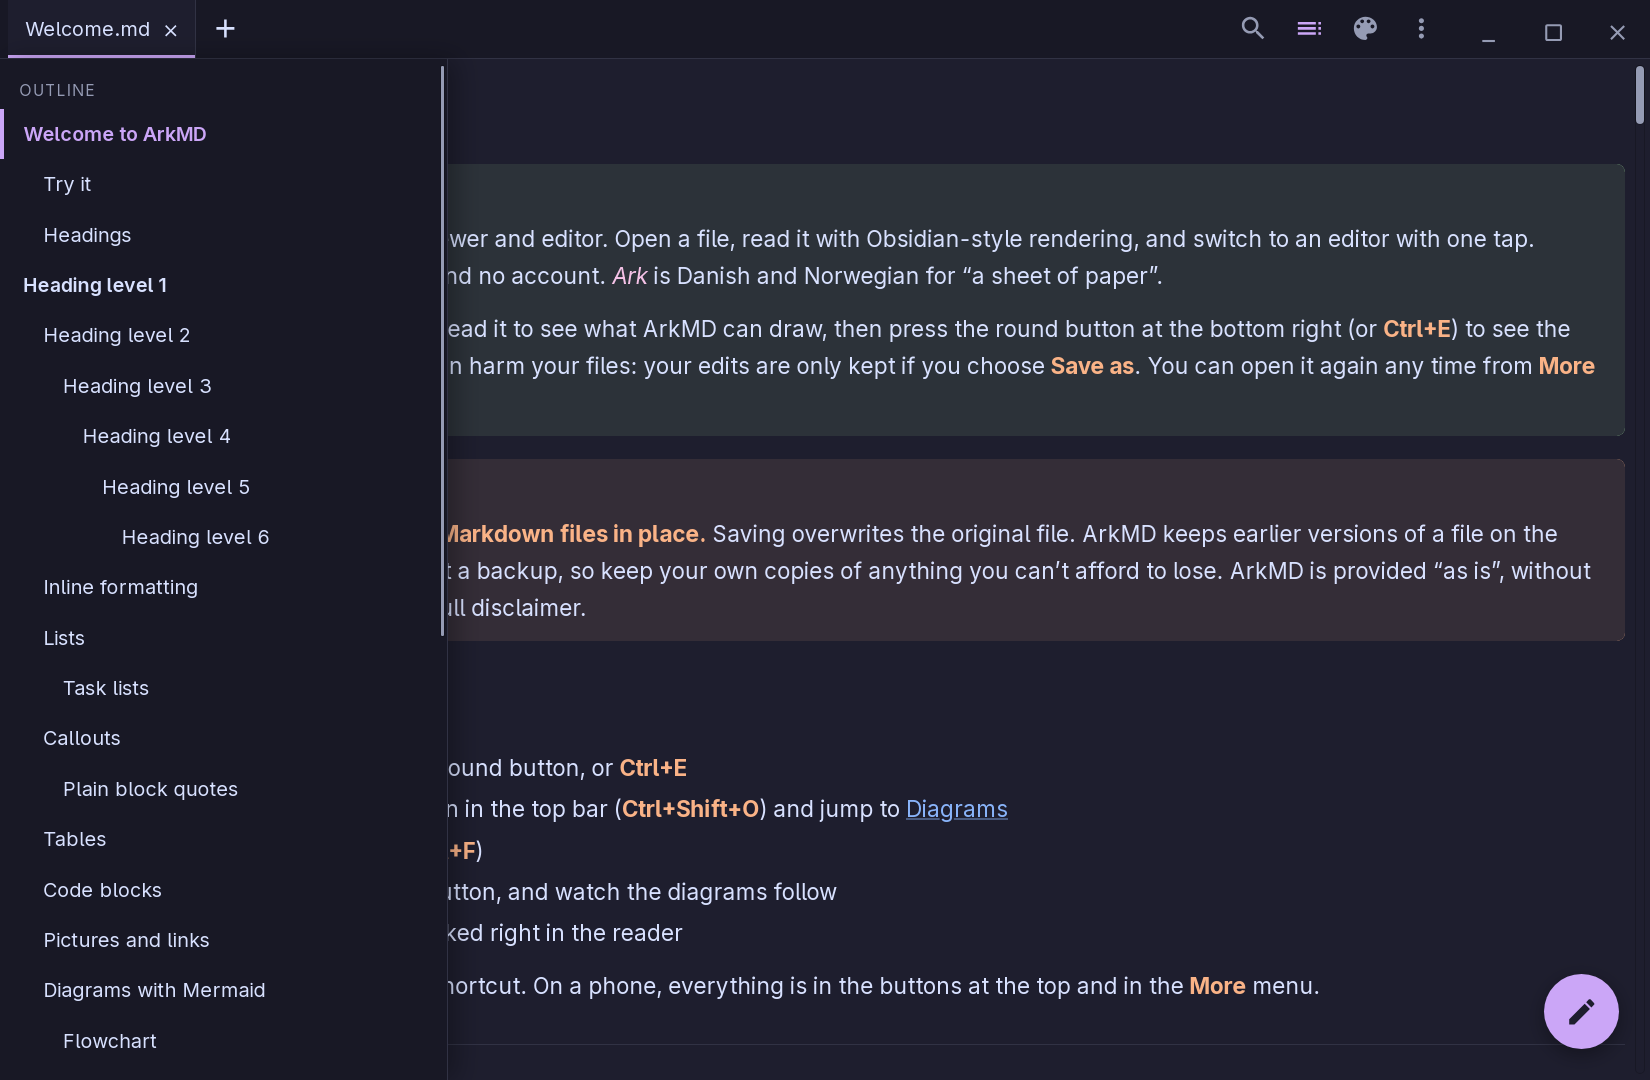
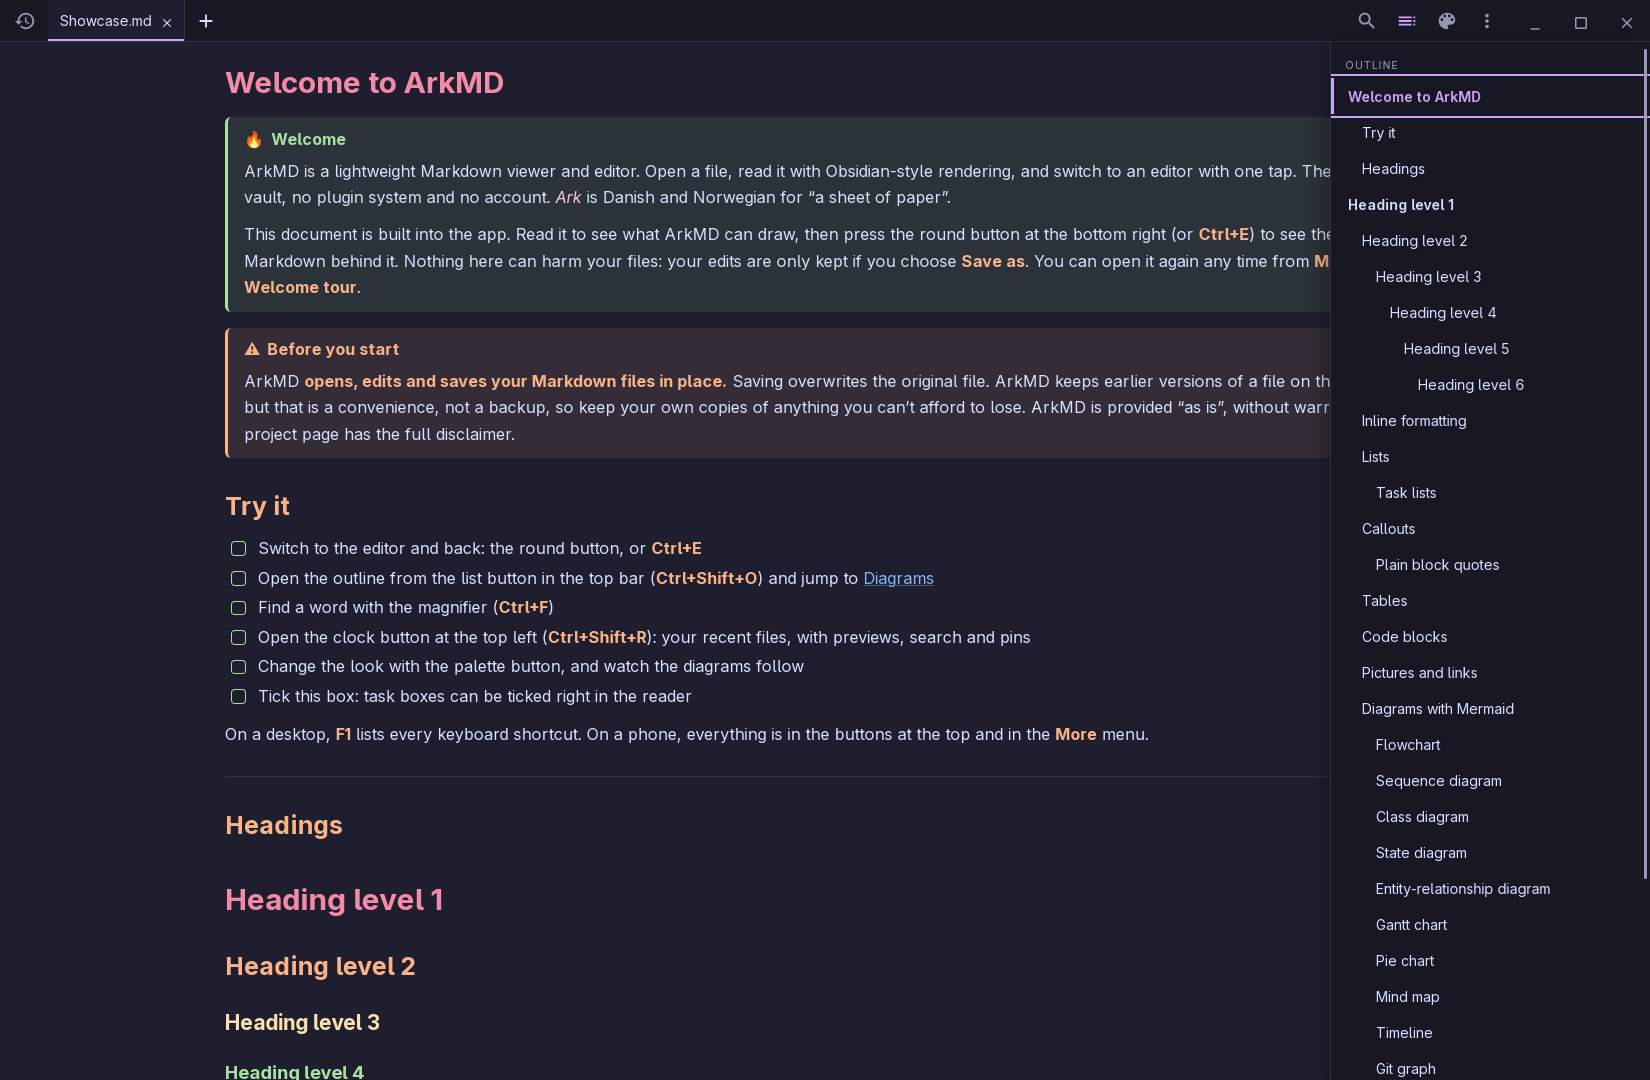
arkmd 0.22.1

diff --git a/app/src/styles.css b/app/src/styles.css
@@ -158,8 +158,8 @@ body.frameless:not(.maximized) { box-shadow: inset 0 0 0 1px var(--surface); }
 .icon:disabled:hover { background: none; }
 
 #outline {
-  position: absolute; top: 0; bottom: 0; left: 0; z-index: 12; width: min(320px, 86vw); overflow-y: auto; padding: 6px 0 12px;
-  background: var(--bg-alt); border-right: 1px solid var(--surface); box-shadow: 6px 0 18px rgba(0,0,0,.3);
+  position: absolute; top: 0; bottom: 0; right: 0; z-index: 12; width: min(320px, 86vw); overflow-y: auto; padding: 6px 0 12px;
+  background: var(--bg-alt); border-left: 1px solid var(--surface); box-shadow: -6px 0 18px rgba(0,0,0,.3);
 }
 #outline[hidden] { display: none; }
 .outline-head { padding: 10px 14px 6px; font-size: 11px; letter-spacing: .08em; text-transform: uppercase; color: var(--fg-muted); }
@@ -178,6 +178,8 @@ body.frameless:not(.maximized) { box-shadow: inset 0 0 0 1px var(--surface); }
   background: var(--bg-alt); border: 1px solid var(--surface); border-radius: 12px; box-shadow: 0 6px 18px rgba(0,0,0,.35);
 }
 #findbar[hidden] { display: none; }
+/* The outline opens on the right, so the find bar steps aside on a wide window. */
+@media (min-width: 521px) { #content:has(#outline:not([hidden])) #findbar { right: calc(min(320px, 86vw) + 14px); width: min(620px, calc(100% - min(320px, 86vw) - 28px)); } }
 .find-row { display: flex; align-items: center; gap: 4px; }
 .find-row + .find-row { margin-top: 6px; }
 #findbar input {

diff --git a/tools/audit_crates.py b/tools/audit_crates.py
@@ -4,8 +4,8 @@
 Advisories that only say a crate is unmaintained or unsound (which the Linux GTK stack under Tauri has some of)
 are listed as warnings. Any other advisory fails the run. An unreachable database is a warning, not a failure."""
 import json
+import re
 import sys
-import tomllib
 import urllib.request
 
 LOCK = "app/src-tauri/Cargo.lock"
@@ -18,8 +18,15 @@ def post(path, body):
 
 
 def main():
-    with open(LOCK, "rb") as f:
-        packages = [(p["name"], p["version"]) for p in tomllib.load(f)["package"] if str(p.get("source", "")).startswith("registry")]
+    # Cargo.lock is plain TOML; the three fields needed are read with a pattern so this runs on any Python 3 (the CI
+    # runner's is older than tomllib).
+    with open(LOCK, encoding="utf-8") as f:
+        blocks = f.read().split("[[package]]")[1:]
+    packages = []
+    for block in blocks:
+        fields = dict(re.findall(r'^(name|version|source) = "([^"]*)"', block, re.M))
+        if fields.get("source", "").startswith("registry"):
+            packages.append((fields["name"], fields["version"]))
     found = {}
     try:
         for i in range(0, len(packages), 500):

diff --git a/docs/reading-and-editing.md b/docs/reading-and-editing.md
@@ -28,7 +28,7 @@ In reading mode, tap or click a task's checkbox to tick or untick it. The change
 
 ## Outline
 
-The list button in the top bar (Ctrl+Shift+O) opens a flyout with the headings of the document, indented by level. Choose one to jump to it: the reader scrolls to the heading, and the editor puts the cursor at the start of its line. The section you are in is marked. Headings inside code blocks and front matter are not listed. Esc or a click outside closes the flyout. At the bottom it shows the word and character count of the document and an estimated reading time.
+The list button in the top bar (Ctrl+Shift+O) opens a flyout on the right with the headings of the document, indented by level. Choose one to jump to it: the reader scrolls to the heading, and the editor puts the cursor at the start of its line. The section you are in is marked. Headings inside code blocks and front matter are not listed. Esc or a click outside closes the flyout. At the bottom it shows the word and character count of the document and an estimated reading time.
 
 ![The outline flyout, in Catppuccin Mocha](screenshots/outline-catppuccin-mocha.png)
 

diff --git a/CHANGELOG.md b/CHANGELOG.md
@@ -2,6 +2,11 @@
 
 Versions follow [semantic versioning](https://semver.org).
 
+## 0.22.1 (2026-11-23)
+
+### Changed
+- The Outline opens from the right edge, matching the swipe-left gesture that opens it, while Recent files stays on the left. On a wide window the find bar moves aside while the outline is open.
+
 ## 0.22.0 (2026-11-23)
 
 ### Added
